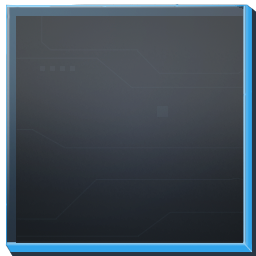
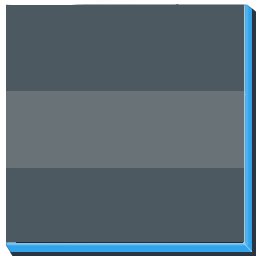
Use directional card backs for path turns.
Add corner path textures for snake board segments and fix turn mapping for cells along the route.

diff --git a/src/GameScene.js b/src/GameScene.js
@@ -6,6 +6,7 @@ import {
 } from "./core/GameManager.js";
 import { CellType } from "./core/Cell.js";
 import { TurnPhase } from "./core/TurnManager.js";
+import { getPathBackTexture } from "./core/PathTextures.js";
 
 const PLAYER_TEXTURES = ["charT", "charP"];
 
@@ -171,8 +172,11 @@ export default class GameScene extends Phaser.Scene {
                 const cell = gm.getCellAtGrid(col, row);
                 const pathIdx = gm.getPathIndexForGrid(col, row);
                 const { x: cx, y: cy } = this.getCellCenter(col, row);
+                const backTexture = pathIdx >= 0
+                    ? getPathBackTexture(gm.path, pathIdx, BOARD_COLS)
+                    : "cardBack";
 
-                const sprite = this.add.image(cx, cy, "cardBack")
+                const sprite = this.add.image(cx, cy, backTexture)
                     .setDisplaySize(cardSize, cardSize);
 
                 const stepLabel = this.add.text(cx - cardSize/3.5, cy + cardSize/3.5, `${pathIdx + 1}`, {
@@ -189,7 +193,15 @@ export default class GameScene extends Phaser.Scene {
                     strokeThickness: 2
                 }).setOrigin(0.5).setVisible(false);
 
-                this.cardSprites.push({ col, row, sprite, overlay, cell, stepLabel });
+                this.cardSprites.push({
+                    col,
+                    row,
+                    sprite,
+                    overlay,
+                    cell,
+                    stepLabel,
+                    backTexture
+                });
             }
         }
 

diff --git a/src/core/PathTextures.js b/src/core/PathTextures.js
@@ -1,0 +1,52 @@
+const OPPOSITE = {
+    left: "right",
+    right: "left",
+    up: "down",
+    down: "up"
+};
+
+const CORNER_TEXTURES = {
+    "left,down": "cardBackRightDown",
+    "up,left": "cardBackDownLeft",
+    "right,down": "cardBackLeftDown",
+    "up,right": "cardBackDownRight"
+};
+
+function getGridPos(boardIndex, cols) {
+    return {
+        col: boardIndex % cols,
+        row: Math.floor(boardIndex / cols)
+    };
+}
+
+function getMoveDirection(fromIndex, toIndex, cols) {
+    const from = getGridPos(fromIndex, cols);
+    const to = getGridPos(toIndex, cols);
+    const dc = to.col - from.col;
+    const dr = to.row - from.row;
+
+    if (dc > 0) return "right";
+    if (dc < 0) return "left";
+    if (dr > 0) return "down";
+    if (dr < 0) return "up";
+    return null;
+}
+
+export function getPathBackTexture(path, pathIndex, cols) {
+    const current = path[pathIndex];
+    const previous = pathIndex > 0 ? path[pathIndex - 1] : null;
+    const next = pathIndex < path.length - 1 ? path[pathIndex + 1] : null;
+
+    const enterFrom = previous != null
+        ? OPPOSITE[getMoveDirection(previous, current, cols)]
+        : null;
+    const exitTo = next != null
+        ? getMoveDirection(current, next, cols)
+        : null;
+
+    if (enterFrom == null || exitTo == null || enterFrom === exitTo) {
+        return "cardBack";
+    }
+
+    return CORNER_TEXTURES[`${enterFrom},${exitTo}`] ?? "cardBack";
+}

diff --git a/src/PreloadScene.js b/src/PreloadScene.js
@@ -1,6 +1,10 @@
 import Phaser from "phaser";
 
 import cardBack from "./assets/cardB.png";
+import cardBackDownLeft from "./assets/cardB_down_left.png";
+import cardBackDownRight from "./assets/cardB_down_right.png";
+import cardBackLeftDown from "./assets/cardB_left_down.png";
+import cardBackRightDown from "./assets/cardB_right_down.png";
 import cardGold from "./assets/cardG.png";
 import cardLose from "./assets/cardF.png";
 import cardPass from "./assets/cardN.png";
@@ -23,6 +27,10 @@ export default class PreloadScene extends Phaser.Scene {
 
     preload() {
         this.load.image("cardBack", cardBack);
+        this.load.image("cardBackDownLeft", cardBackDownLeft);
+        this.load.image("cardBackDownRight", cardBackDownRight);
+        this.load.image("cardBackLeftDown", cardBackLeftDown);
+        this.load.image("cardBackRightDown", cardBackRightDown);
         this.load.image("cardGold", cardGold);
         this.load.image("cardLose", cardLose);
         this.load.image("cardPass", cardPass);
